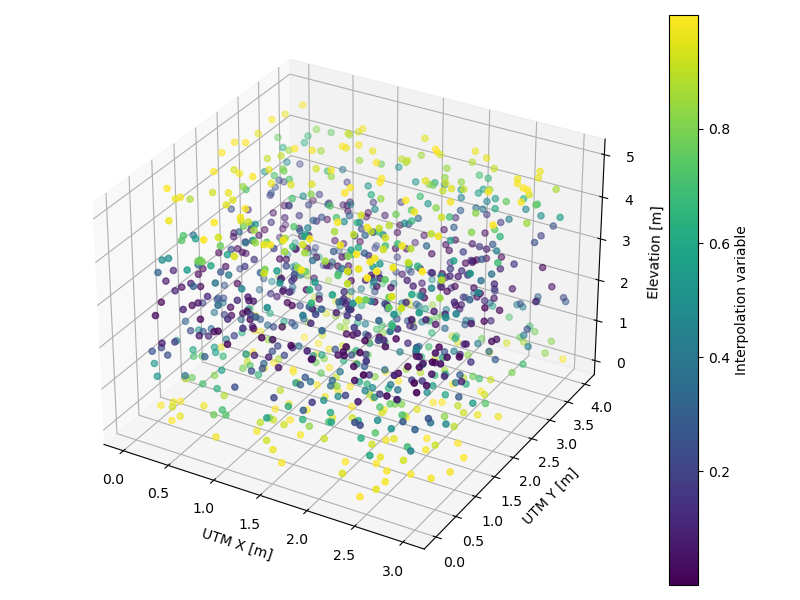
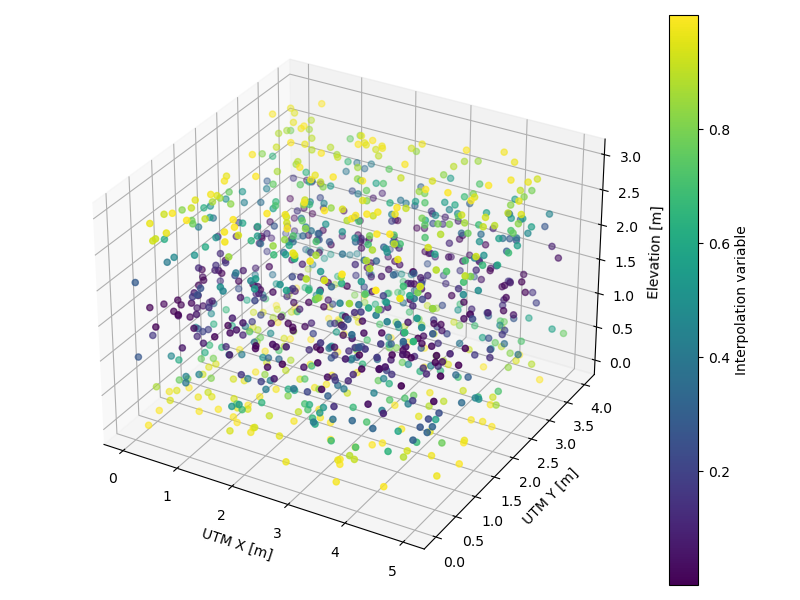
fix typo in meshgrid call

diff --git a/gaussian-kernel-interpolation.py b/gaussian-kernel-interpolation.py
@@ -12,12 +12,12 @@ def gaussian_weights(r, sigma):
     return np.exp(-r*r/sigma/sigma/2)
 
 # point cloud data
-pts = np.c_[shape[0] * np.random.random(num),
+pts = np.c_[shape[2] * np.random.random(num),
             shape[1] * np.random.random(num),
-            shape[2] * np.random.random(num)]
+            shape[0] * np.random.random(num)]
 
 # interpolation variable
-var = np.cos(pts[:,2]/shape[2]*np.pi)**2
+var = np.cos(pts[:,2]/shape[0]*np.pi)**2
 
 # get a visual impression
 fg = pl.figure(1, (8, 6))
@@ -26,7 +26,8 @@ ax.plot(pts[:,2], var, 'o', mfc = 'none')
 ax.set_xlabel('Elevation')
 ax.set_ylabel('Interpolation variable')
 pl.tight_layout()
-pl.show()
+pl.savefig('interp-var-2d.png')
+pl.close('all')
 
 # in 3d
 fg = pl.figure(1, (8, 6))
@@ -38,17 +39,18 @@ ax.set_xlabel('UTM X [m]')
 ax.set_ylabel('UTM Y [m]')
 ax.set_zlabel('Elevation [m]')
 pl.tight_layout()
-pl.show()
+pl.savefig('interp-var-3d.png')
+pl.close('all')
 
 # voxel bounds
-vxb = np.linspace(0, shape[0], int(shape[0]/voxel_width)+1)
+vxb = np.linspace(0, shape[2], int(shape[2]/voxel_width)+1)
 vyb = np.linspace(0, shape[1], int(shape[1]/voxel_width)+1)
-vzb = np.linspace(0, shape[2], int(shape[2]/voxel_width)+1)
+vzb = np.linspace(0, shape[0], int(shape[0]/voxel_width)+1)
 
 # voxel center coordinates
-vzc, vyc, vxc = np.meshgrid((vzb[1:]+vzb[:-1])/2,
+vyc, vzc, vxc = np.meshgrid((vyb[1:]+vyb[:-1])/2,
                             (vzb[1:]+vzb[:-1])/2,
-                            (vzb[1:]+vzb[:-1])/2)
+                            (vxb[1:]+vxb[:-1])/2)
 vxl = np.c_[vxc.ravel(), vyc.ravel(), vzc.ravel()]
 
 # KD-Tree
@@ -66,7 +68,8 @@ ax.set_xlabel('UTM X [m]')
 ax.set_ylabel('UTM Y [m]')
 ax.set_zlabel('Elevation [m]')
 pl.tight_layout()
-pl.show()
+pl.savefig('voxelized-var-nn.png')
+pl.close('all')
 
 # it would be more honest to take a ball neighborhood,
 # but I'll just take the 20 nn for speed and simplicity
@@ -86,7 +89,8 @@ ax.set_xlabel('UTM X [m]')
 ax.set_ylabel('UTM Y [m]')
 ax.set_zlabel('Elevation [m]')
 pl.tight_layout()
-pl.show()
+pl.savefig('voxelized-var-gki.png')
+pl.close('all')
 
 # what are the differences
 fg = pl.figure(1, (8, 6))
@@ -96,4 +100,5 @@ ax.plot([0,1], [0,1], 'r-')
 ax.set_xlabel('Nearest neighbor interp')
 ax.set_ylabel('Gaussian kernel interp')
 pl.tight_layout()
-pl.show()
+pl.savefig('voxelized-var-nn-gki-diff.png')
+pl.close('all')

diff --git a/gki-argmin-surfaces.py b/gki-argmin-surfaces.py
@@ -1,0 +1,67 @@
+import numpy as np
+from scipy.spatial import cKDTree as kdtree
+from mpl_toolkits.mplot3d import Axes3D
+from matplotlib import pyplot as pl
+
+shape = (3, 4, 5) # [meters]
+num = 1000
+sigma = 25.0 / 2
+theory = shape[0]/2
+
+def gaussian_weights(r, sigma):
+    return np.exp(-r*r/sigma/sigma/2)
+
+# point cloud data
+pts = np.c_[shape[2] * np.random.random(num),
+            shape[1] * np.random.random(num),
+            shape[0] * np.random.random(num)]
+
+# interpolation variable
+var = np.cos(pts[:,2]/shape[0]*np.pi)**2
+
+fg = pl.figure(1, (8, 6))
+ax = fg.add_subplot(111)
+
+for voxel_width in np.linspace(0.05, 0.25, 5):
+    print('voxel width:', voxel_width)
+
+    # voxel bounds
+    vxb = np.linspace(0, shape[2], int(shape[2]/voxel_width)+1)
+    vyb = np.linspace(0, shape[1], int(shape[1]/voxel_width)+1)
+    vzb = np.linspace(0, shape[0], int(shape[0]/voxel_width)+1)
+
+    # voxel center coordinates
+    vyc, vzc, vxc = np.meshgrid((vyb[1:]+vyb[:-1])/2,
+                                (vzb[1:]+vzb[:-1])/2,
+                                (vxb[1:]+vxb[:-1])/2)
+    vxl = np.c_[vxc.ravel(), vyc.ravel(), vzc.ravel()]
+
+    # KD-Tree
+    tree = kdtree(pts)
+
+    # it would be more honest to take a ball neighborhood,
+    # but I'll just take the 20 nn for speed and simplicity
+    # problem: nn might not form a sphere
+    dd, ii = tree.query(vxl, k = 20)
+    wi = gaussian_weights(dd, sigma)
+    vi = var[ii]
+
+    # Gaussian kernel interpolation
+    var_gki = np.sum(vi*wi, axis = 1) / np.sum(wi, axis = 1)
+    var_gki.shape = vzc.shape
+
+    # digital surface model
+    dsm = vzb[np.nanargmin(var_gki, axis = 0)] + voxel_width/2
+
+    # error distribution
+    bins = np.arange(-3.25, 3.50, 0.5)
+    p, b = np.histogram((theory - dsm)/voxel_width, bins = bins, density = True)
+    ax.plot((b[1:]+b[:-1])/2, p, label = 'voxel width %.2f' % voxel_width)
+
+ax.set_xlabel('DSM error [voxel width]')
+ax.set_ylabel('Probability')
+ax.set_xlim((bins.min(), bins.max()))
+pl.grid()
+pl.legend()
+pl.tight_layout()
+pl.savefig('dsm-error-voxel-widths.png')

diff --git a/gki-argmin-surface.py b/gki-argmin-surface.py
@@ -1,0 +1,57 @@
+import numpy as np
+from scipy.spatial import cKDTree as kdtree
+from mpl_toolkits.mplot3d import Axes3D
+from matplotlib import pyplot as pl
+
+shape = (3, 4, 5) # [meters]
+num = 1000
+voxel_width = 0.25 # 25 cm
+sigma = voxel_width / 2
+theory = shape[0]/2
+
+def gaussian_weights(r, sigma):
+    return np.exp(-r*r/sigma/sigma/2)
+
+# point cloud data
+pts = np.c_[shape[2] * np.random.random(num),
+            shape[1] * np.random.random(num),
+            shape[0] * np.random.random(num)]
+
+# interpolation variable
+var = np.cos(pts[:,2]/shape[0]*np.pi)**2
+
+# voxel bounds
+vxb = np.linspace(0, shape[2], int(shape[2]/voxel_width)+1)
+vyb = np.linspace(0, shape[1], int(shape[1]/voxel_width)+1)
+vzb = np.linspace(0, shape[0], int(shape[0]/voxel_width)+1)
+
+# voxel center coordinates
+vyc, vzc, vxc = np.meshgrid((vyb[1:]+vyb[:-1])/2,
+                            (vzb[1:]+vzb[:-1])/2,
+                            (vxb[1:]+vxb[:-1])/2)
+vxl = np.c_[vxc.ravel(), vyc.ravel(), vzc.ravel()]
+
+# KD-Tree
+tree = kdtree(pts)
+
+# it would be more honest to take a ball neighborhood,
+# but I'll just take the 20 nn for speed and simplicity
+# problem: nn might not form a sphere
+dd, ii = tree.query(vxl, k = 20)
+wi = gaussian_weights(dd, sigma)
+vi = var[ii]
+
+# Gaussian kernel interpolation
+var_gki = np.sum(vi*wi, axis = 1) / np.sum(wi, axis = 1)
+var_gki.shape = vzc.shape
+dsm = vzb[np.nanargmin(var_gki, axis = 0)] + voxel_width/2
+
+fg = pl.figure(1, (8, 6))
+ax = fg.add_subplot(111)
+ob = ax.pcolormesh(vxb, vyb, (theory - dsm)/voxel_width)
+cb = fg.colorbar(ob)
+cb.set_label('DSM error [voxel width]')
+ax.set_xlabel('UTM X [m]')
+ax.set_ylabel('UTM Y [m]')
+pl.tight_layout()
+pl.show()

diff --git a/README.md b/README.md
@@ -16,12 +16,12 @@ def gaussian_weights(r, sigma):
     return np.exp(-r*r/sigma/sigma/2)
 
 # point cloud data
-pts = np.c_[shape[0] * np.random.random(num),
+pts = np.c_[shape[2] * np.random.random(num),
             shape[1] * np.random.random(num),
-            shape[2] * np.random.random(num)]
+            shape[0] * np.random.random(num)]
 
 # interpolation variable
-var = np.cos(pts[:,2]/shape[2]*np.pi)**2
+var = np.cos(pts[:,2]/shape[0]*np.pi)**2
 
 # get a visual impression
 fg = pl.figure(1, (8, 6))
@@ -53,14 +53,14 @@ pl.close('all')
 
 ```python
 # voxel bounds
-vxb = np.linspace(0, shape[0], int(shape[0]/voxel_width)+1)
+vxb = np.linspace(0, shape[2], int(shape[2]/voxel_width)+1)
 vyb = np.linspace(0, shape[1], int(shape[1]/voxel_width)+1)
-vzb = np.linspace(0, shape[2], int(shape[2]/voxel_width)+1)
+vzb = np.linspace(0, shape[0], int(shape[0]/voxel_width)+1)
 
 # voxel center coordinates
-vzc, vyc, vxc = np.meshgrid((vzb[1:]+vzb[:-1])/2,
+vyc, vzc, vxc = np.meshgrid((vyb[1:]+vyb[:-1])/2,
                             (vzb[1:]+vzb[:-1])/2,
-                            (vzb[1:]+vzb[:-1])/2)
+                            (vxb[1:]+vxb[:-1])/2)
 vxl = np.c_[vxc.ravel(), vyc.ravel(), vzc.ravel()]
 
 # KD-Tree
